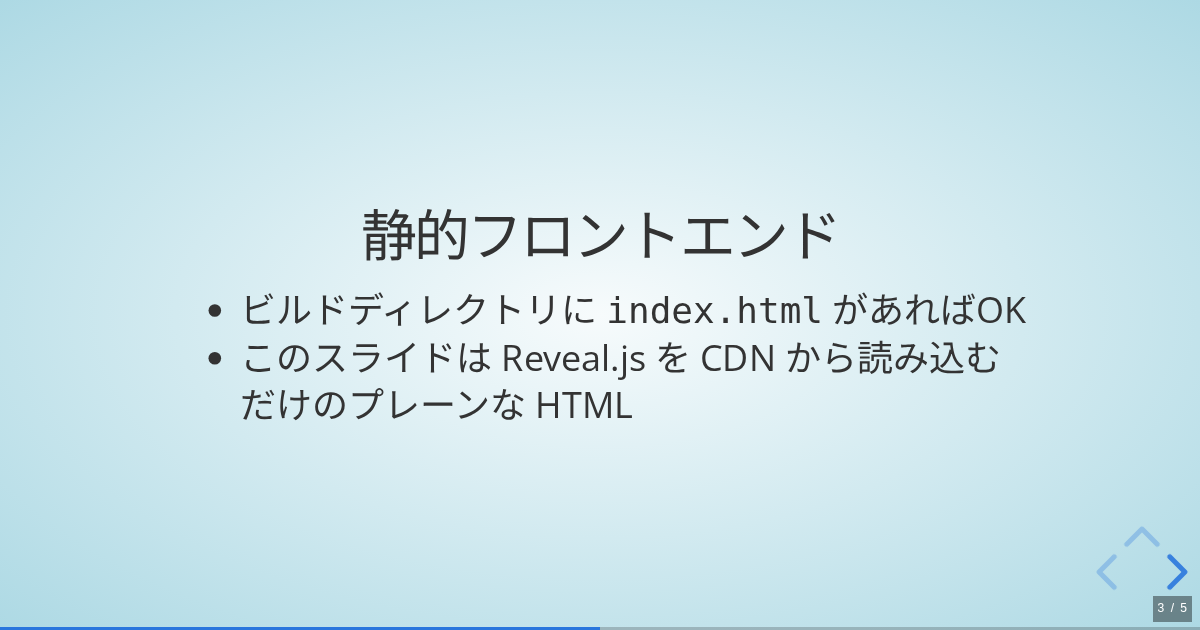
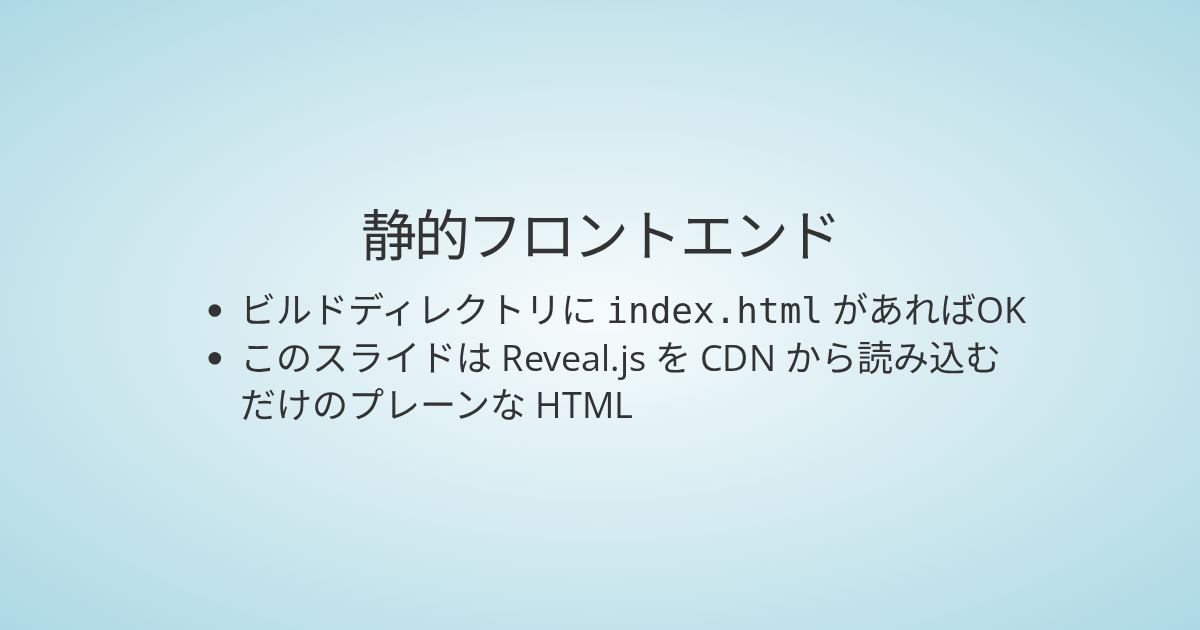
Hide Reveal controls in OGP images

Changed region(s): [[0.0, 0.8444, 1.0, 1.0], [0.8942, 0.9048, 0.925, 0.9349]]

diff --git a/scripts/generate_og.py b/scripts/generate_og.py
@@ -21,6 +21,9 @@ def capture_slides(url: str, output: Path) -> None:
         page = browser.new_page(viewport={"width": 1200, "height": 630})
         page.goto(url)
         page.wait_for_function("() => window.Reveal?.isReady()")
+        page.evaluate(
+            "() => Reveal.configure({controls: false, progress: false, slideNumber: false})"
+        )
         indices = page.evaluate(
             """() => Reveal.getSlides().map(slide => {
                 const { h, v = 0 } = Reveal.getIndices(slide);
